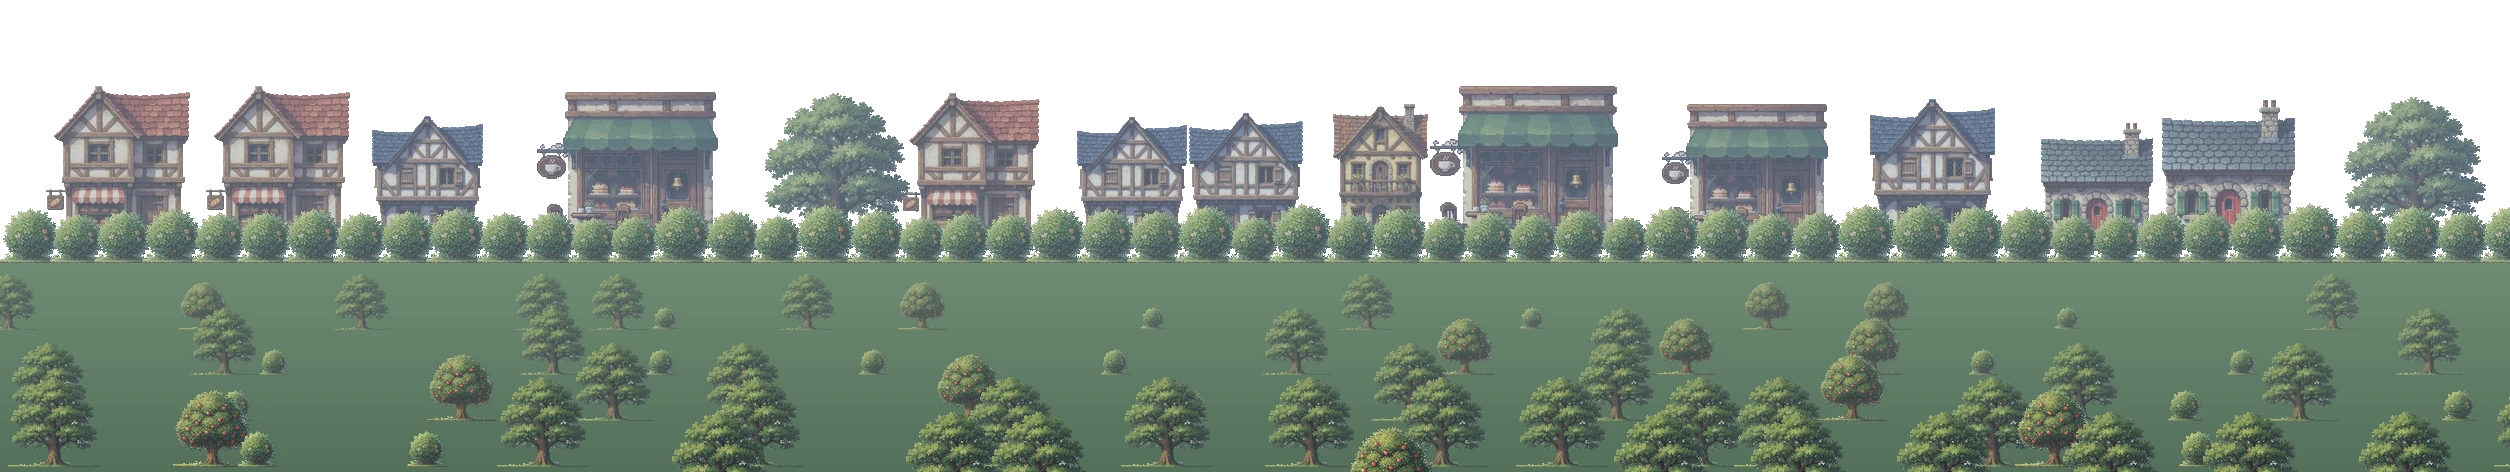
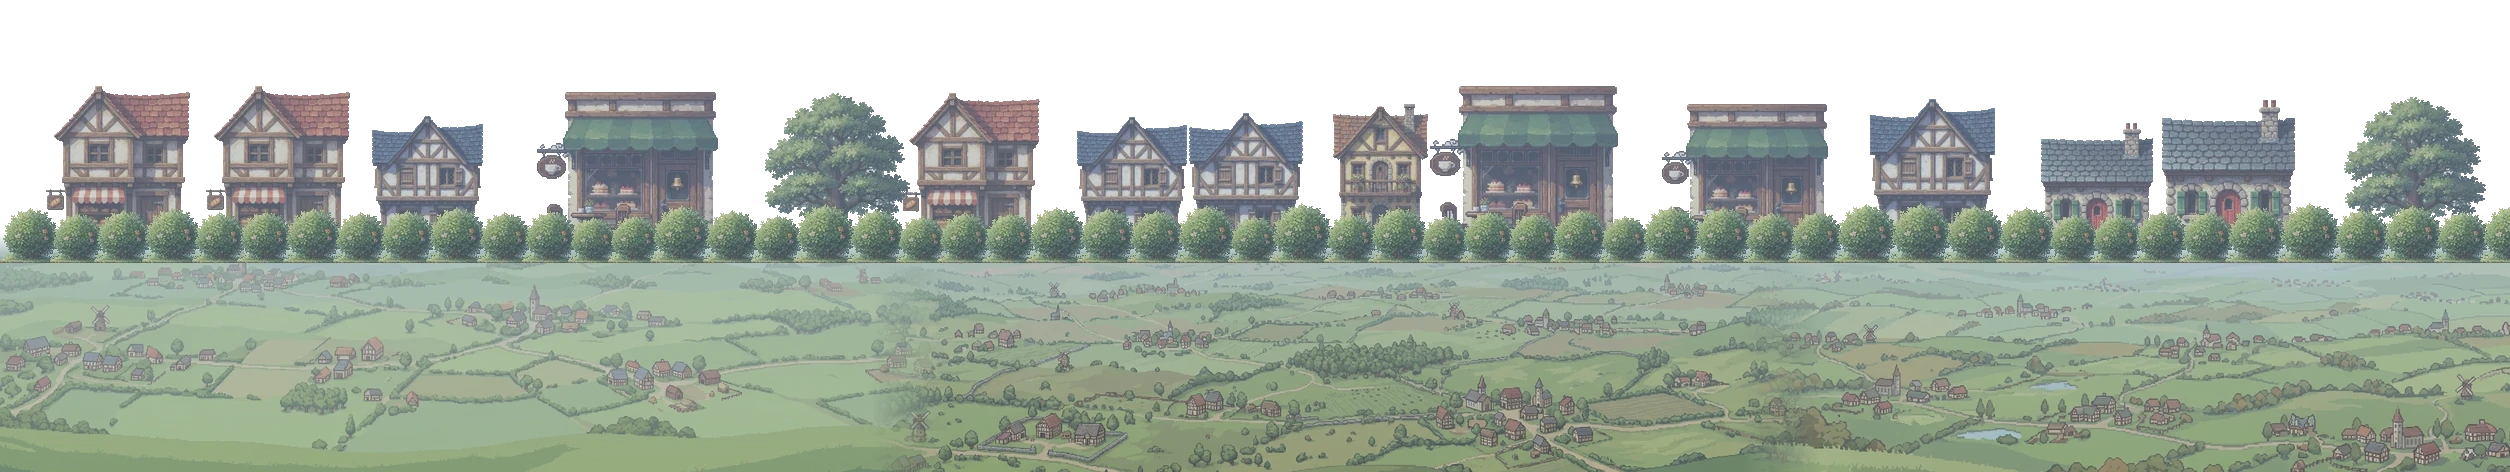
Night Watch art: distant villages and farmland on the town backdrop's plain (Gemini proof of concept)
Claude-Session: https://claude.ai/code/session_01JTmPY8Mp65o4MB5dxNnbWK

diff --git a/game/tools/watch_art/build_final.py b/game/tools/watch_art/build_final.py
@@ -32,15 +32,22 @@ hill[:, :, 3] = 255; back.alpha_composite(Image.fromarray(hill, 'RGBA'), (0, bas
 rows = [Image.open(f'oldback/{lv}.webp').convert('RGBA') for lv in T.ORDER]
 bush = rows[0].crop((0, 262, rows[0].width, 306))          # the hazed hedge line along the bottom of a row
 from compose import piece, haze
-import random
-rr = random.Random(3)
-for yb in range(330, BH + 60, 46):                         # a hazed orchard hillside: trees and hedges, paler higher up
-    k = (yb - 330) / max(1, BH - 330); x = rr.randint(-80, 60)
-    while x < BW:
-        nm = rr.choice(['tree-oak', 'tree-apple', 'bush', 'bush', 'tree-oak'])
-        hh = {'tree-oak': 70, 'tree-apple': 60, 'bush': 28}[nm] * (0.8 + 0.5 * k)
-        back.alpha_composite(haze(piece(nm, int(hh)), (128, 150, 140), 0.55 - 0.25 * k).convert('RGBA'), (int(x), int(yb - hh)))
-        x += rr.randint(60, 260)
+# (Ladi, Nov 18) the plain below the hazed rooftops is filled with distant villages and farmland: three wide
+# panoramas made with Gemini image generation (villages/pano-*.png), cropped to the land, hazed, cross-faded side by side
+PH = BH - base + 30; strip = Image.new('RGBA', (BW, PH)); xo = 0; k = 0
+while xo < BW:
+    p = Image.open(f'villages/pano-{k % 3 + 1}.png').convert('RGB').resize((1584, 672), Image.LANCZOS)
+    top = {1: 250, 2: 200, 3: 200}[k % 3 + 1]
+    land = p.crop((0, top, 1584, top + 400)); w = round(1584 * PH / 400); land = land.resize((w, PH), Image.LANCZOS)
+    arr = np.asarray(land).astype(float); fog = np.array([150, 170, 176.0])
+    t = np.linspace(0.55, 0.3, PH)[:, None, None]   # hazier towards the horizon
+    arr = arr * (1 - t) + fog * t
+    al = np.full((PH, w), 255.0); f = 80
+    if xo: al[:, :f] = np.linspace(0, 255, f)[None, :]
+    al[:22] *= np.linspace(0, 1, 22)[:, None]
+    tile = Image.fromarray(np.dstack([arr, al]).astype(np.uint8), 'RGBA'); strip.alpha_composite(tile, (xo, 0))
+    xo += w - f; k += 1
+back.alpha_composite(strip, (0, base - 30))
 x = 0
 for i in range(8):
     row = rows[i % 4]; back.alpha_composite(row, (x, base - 305)); x += row.width

diff --git a/game/tools/watch_art/gem.py b/game/tools/watch_art/gem.py
@@ -1,0 +1,9 @@
+import json, os, sys, base64, urllib.request
+model, out, prompt = sys.argv[1], sys.argv[2], sys.argv[3]
+body = {'contents': [{'parts': [{'text': prompt}]}], 'generationConfig': {'responseModalities': ['IMAGE'], 'imageConfig': {'aspectRatio': '21:9'}}}
+req = urllib.request.Request(f'https://generativelanguage.googleapis.com/v1beta/models/{model}:generateContent', data=json.dumps(body).encode(),
+                             headers={'Content-Type': 'application/json', 'x-goog-api-key': os.environ['GEMINI_API_KEY']})
+d = json.load(urllib.request.urlopen(req, timeout=110))
+for p in d['candidates'][0]['content']['parts']:
+    if 'inlineData' in p: open(out, 'wb').write(base64.b64decode(p['inlineData']['data'])); print('saved', out); break
+else: print(json.dumps(d)[:500])

diff --git a/game/CREDITS.md b/game/CREDITS.md
@@ -133,7 +133,7 @@ Everything else is drawn in code: portraits for characters without a painted one
 | The Night Watch's parallax layers (`assets/img/watch/levels`, `assets/img/watch/floors`): the West Road, Hill Road, Main Street and Far Lane (far hills with the castle on its hill, hazed rooftops, the street and a foreground layer), the castle's towers, upper floor, ground floor and cellars (thirteen cut-away rooms, stair towers and doorways), the bridge and the neighbour's castle. Buildings: the far gate, lookout ruin, wayside shrine, coach house, castle-hill gatehouse, post office, library, bounty board, Doug's flat, Seymour's bunker, Base Camp, the forge, the watch outpost, bakery, Cache Café, Kagemaru's stall, the lock shop, the gate out of town, the orchard cottage, the river dock, granary, town well, three town houses, trees, stairs, lamp posts, fences and bushes | Generated for this game with [Sogni](https://www.sogni.ai) on 2026-11-18 on Ladi's Sogni Unlimited plan: each building, room and prop drawn in flat side elevation with Krea 2 Turbo (`krea2_turbo_fp8_scaled`); the castle-hill gate's archway, the lock shop's sign, the bounty board's posters, the library and the bakery redone with Krea 2 Identity Edit (`krea2_identity_edit_v1_2`) or a new render so doors fit a person and no garbled lettering shows. Cut out, sized and placed at the town's spot positions by `tools/watch_art/compose.py`; the far hills, road surfaces, river boards and stone floors are drawn in code by `tools/watch_art/proc.py` | Generated for this game; used under Sogni's terms for generated output | The Night Watch's town, castle and bridge (`js/watch-art.js`) |
 | The Night Watch's props (`assets/img/watch/props`): the two castle staircases, the quest-built cellar and back stairs, the supply hoist's gate and platform, the lantern post; and the breach sparkle | The stairs, hoist and lantern post generated for this game with [Sogni](https://www.sogni.ai) on 2026-11-18 with Krea 2 Turbo (`krea2_turbo_fp8_scaled`) on Ladi's Sogni Unlimited plan and cut out by `tools/watch_art/compose.py`; the sparkle drawn in code by `tools/watch_art/proc.py` | Generated for this game; used under Sogni's terms for generated output | The Night Watch's stairs, hoist, lantern posts and breach markers |
 | The Night Watch's weather overlays (`assets/img/watch/weather`): looping rain, storm rain, fog, low mist and wind (gust streaks and leaves) | Drawn in code for this game by `tools/watch_art/proc.py` on 2026-11-18 | Made for this game | The Night Watch's weather days and nights |
-| The Night Watch's stacked town (`assets/img/watch/town`, and the per-level crops `assets/img/watch/levels/*/street.webp`): the West Road, Hill Road, Main Street and Far Lane on one hillside, each road above the next, joined by sloped paths and the chute | Laid out by `tools/watch_art/town.py` on 2026-11-18 from the Sogni buildings, trees and bushes credited above, plus a hillside soil tile and a stone retaining-wall tile generated for this game with [Sogni](https://www.sogni.ai) on 2026-11-18 with Krea 2 Turbo (`krea2_turbo_fp8_scaled`) on Ladi's Sogni Unlimited plan; roads, ramps, fences, the chute and the dock's plank walkway and river drawn in code. The backdrop behind the terraces (`town/back.webp`) reuses the hazed rooftop rows from the first set of level layers, raised to the top of the hill, over a hazed hillside of the same trees and bushes. Since 2026-11-18 the roads sit 125 px apart with a solid earth bank between them, each road's buildings are a layer of their own (`town/bld-*.webp`), and a blurred, see-through copy of each (`town/bld-*-soft.webp`) is made in code | Generated for this game; used under Sogni's terms for generated output | The Night Watch's town (`js/watch-art.js`) |
+| The Night Watch's stacked town (`assets/img/watch/town`, and the per-level crops `assets/img/watch/levels/*/street.webp`): the West Road, Hill Road, Main Street and Far Lane on one hillside, each road above the next, joined by sloped paths and the chute | Laid out by `tools/watch_art/town.py` on 2026-11-18 from the Sogni buildings, trees and bushes credited above, plus a hillside soil tile and a stone retaining-wall tile generated for this game with [Sogni](https://www.sogni.ai) on 2026-11-18 with Krea 2 Turbo (`krea2_turbo_fp8_scaled`) on Ladi's Sogni Unlimited plan; roads, ramps, fences, the chute and the dock's plank walkway and river drawn in code. The backdrop behind the terraces (`town/back.webp`) reuses the hazed rooftop rows from the first set of level layers, raised to the top of the hill, over a hazed hillside of the same trees and bushes. Since 2026-11-18 the roads sit 125 px apart with a solid earth bank between them, each road's buildings are a layer of their own (`town/bld-*.webp`), and a blurred, see-through copy of each (`town/bld-*-soft.webp`) is made in code. The plain below the hazed rooftops is filled with distant villages and farmland from three panoramas generated for this game with Google's Gemini image generation (Gemini 3.1 Flash Image) on 2026-11-18 (`tools/watch_art/villages`, made by `tools/watch_art/gem.py`), cropped, hazed and cross-faded in code | Generated for this game with Sogni and Gemini; used under each service's terms for generated output | The Night Watch's town (`js/watch-art.js`) |
 | The Night Watch's castle floors (`assets/img/watch/floors/*/wall.webp`): the towers, upper floor, ground floor and cellars, each one long wall with its stairs at both ends and its rooms furnished at a person's scale | Generated for this game with [Sogni](https://www.sogni.ai) on 2026-11-18 on Ladi's Sogni Unlimited plan: each floor drawn empty as one wall with Krea 2 Turbo (`krea2_turbo_fp8_scaled`), then furnished in place with Krea 2 Identity Edit (`krea2_identity_edit_v1_2`) using the empty room for scale; windows and doorways keyed out by `tools/watch_art/floors2.py`. The cellar bunk that blocked a doorway removed with one more Krea 2 Identity Edit; the ground floor's window sills, the solid end walls, the opened bridge doorway and the hoist shaft on the left drawn in code by the same script | Generated for this game; used under Sogni's terms for generated output | The Night Watch's castle (`js/watch-art.js`) |
 | The Night Watch's dialogue portraits (`assets/img/watch/portraits/*.webp`): Seo-yeon, Mira, Kai, Dutch, Postmaster Coo, Bru, Kagemaru, Lexi, Grandma Wen, Ayo, Aigerim, Chad, Sir Seymour Backups, Old Hobb, Sergeant Pell, Tess, Doug, Hollis, Odu, Fennel, the Captain and the Hooded Stranger | Generated for this game with [Sogni](https://www.sogni.ai) on 2026-11-18 with Krea 2 Identity Edit (`krea2_identity_edit_v1_2`) on Ladi's Sogni Unlimited plan, each turned into a head-and-shoulders bust from that character's side-view render in `assets/img/watch/people` (and, where one exists, their portrait in `assets/img/portraits` as a second reference); one of two takes picked, cropped and converted to WebP; Seymour's closed visor edited the same way, and Kagemaru's wrists recoloured black in code. Chad's portrait (a young first-year MBA in a navy quarter zip) drawn fresh from a text prompt with Krea 2 Turbo (`krea2_turbo_fp8_scaled`), one of six takes picked. Prompts in `tools/watch_art/jobs/jobs-portrait.json` | Generated for this game; used under Sogni's terms for generated output | The Night Watch's dialogue box |
 
